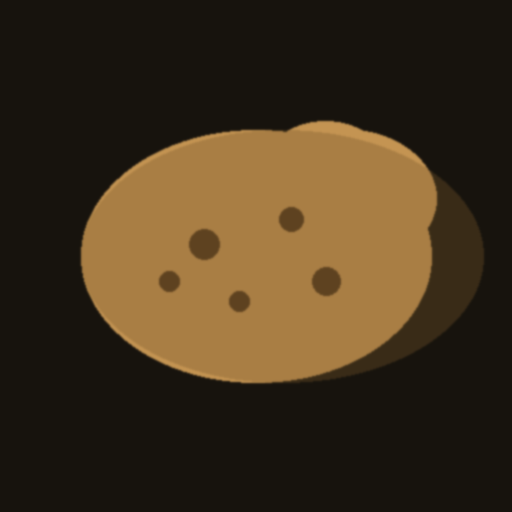
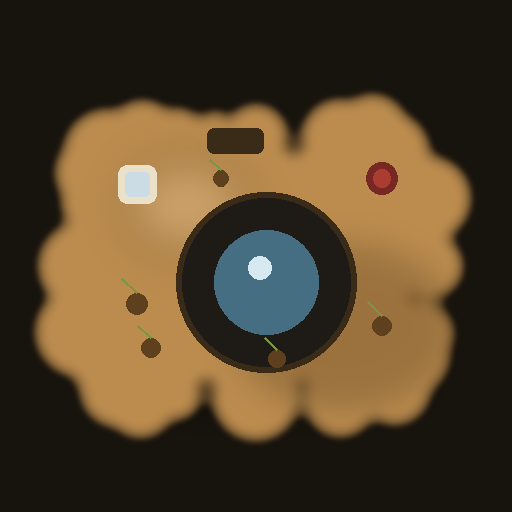
Add files via upload

diff --git a/potato-cam-2.html b/potato-cam-2.html
@@ -106,6 +106,7 @@
     padding: 7px 12px; border-radius: 14px; font-size: 18px; min-width: 58px;
   }
   .typeChip span { font-size: 10px; font-weight: 600; color: inherit; }
+  .chipPotatoIcon { width: 22px; height: 15px; display: block; }
   .typeChip.active {
     background: #3a2b0d; border-color: #ffd873; color: #ffd873;
     box-shadow: 0 0 0 1px #ffd87355;
@@ -224,14 +225,24 @@
     </div>
   </div>
 
-  <div id="controls">
+  <svg width="0" height="0" style="position:absolute; overflow:hidden;" aria-hidden="true">
+  <symbol id="potatoIconShape" viewBox="0 0 64 44">
+    <path d="M4,24 C2,15 10,8 20,7 C26,3 40,2 50,7 C60,11 62,20 58,28 C56,37 44,42 32,41 C20,42 8,39 5,30 C4,28 4,26 4,24 Z" fill="currentColor"/>
+    <ellipse cx="21" cy="19" rx="3.6" ry="2.8" fill="#000" opacity="0.3"/>
+    <ellipse cx="35" cy="15" rx="2.8" ry="2.2" fill="#000" opacity="0.26"/>
+    <ellipse cx="41" cy="27" rx="3.2" ry="2.5" fill="#000" opacity="0.28"/>
+    <ellipse cx="16" cy="29" rx="2.4" ry="1.9" fill="#000" opacity="0.24"/>
+  </symbol>
+</svg>
+
+<div id="controls">
     <div id="bottomWrap">
       <div id="typeRow">
         <button class="typeChip active" data-type="russet">🥔<span>Russet</span></button>
         <button class="typeChip" data-type="sweet">🍠<span>Sweet</span></button>
-        <button class="typeChip" data-type="purple">🍆<span>Purple</span></button>
-        <button class="typeChip" data-type="red">🔴<span>Red</span></button>
-        <button class="typeChip" data-type="gold">🟡<span>Gold</span></button>
+        <button class="typeChip" data-type="purple"><svg class="chipPotatoIcon" style="color:#8a5fb0;"><use href="#potatoIconShape"/></svg><span>Purple</span></button>
+        <button class="typeChip" data-type="red"><svg class="chipPotatoIcon" style="color:#b5544a;"><use href="#potatoIconShape"/></svg><span>Red</span></button>
+        <button class="typeChip" data-type="gold" title="Jersey Royal"><svg class="chipPotatoIcon" style="color:#d9b872;"><use href="#potatoIconShape"/></svg><span>Jersey</span></button>
         <button class="typeChip" data-type="frozen">🧊<span>Frozen</span></button>
       </div>
       <div id="btnRow">
@@ -456,7 +467,7 @@ if ('serviceWorker' in navigator) {
     sweet:   { name: 'Sweet Potato', emoji: '🍠', rShift: 42,  gShift: 8,   bShift: -30, sat: 1.25, divX: 1,   divY: 1,   smooth: true,  postBlur: 0 },
     purple:  { name: 'Purple',       emoji: '🍆', rShift: 6,   gShift: -18, bShift: 34,  sat: 1.3,  divX: 0.45, divY: 2.4, smooth: false, postBlur: 0 },
     red:     { name: 'Red Potato',   emoji: '🔴', rShift: 34,  gShift: -14, bShift: -8,  sat: 1.2,  divX: 2.4, divY: 0.45, smooth: false, postBlur: 0 },
-    gold:    { name: 'Yukon Gold',   emoji: '🟡', rShift: 22,  gShift: 16,  bShift: -18, sat: 1.1,  divX: 1.7, divY: 1.7, smooth: false, postBlur: 0 },
+    gold:    { name: 'Jersey Royal', emoji: '🟡', rShift: 22,  gShift: 16,  bShift: -18, sat: 1.1,  divX: 1.7, divY: 1.7, smooth: false, postBlur: 0 },
     frozen:  { name: 'Frozen',       emoji: '🧊', rShift: -20, gShift: 0,   bShift: 26,  sat: 0.85, divX: 1,   divY: 1,   smooth: false, postBlur: 2.5 }
   };
   let currentPotatoType = 'russet';

diff --git a/sw.js b/sw.js
@@ -1,6 +1,6 @@
 // Bump this version string any time you update potato-cam-2.html, manifest.json,
 // or the icons — it forces the service worker to fetch fresh copies and re-cache.
-const CACHE_NAME = 'potato-cam-v12';
+const CACHE_NAME = 'potato-cam-v13';
 
 // IMPORTANT: these must exactly match the filenames actually deployed in your repo.
 // If you rename the html file again, update the entry below to match.
